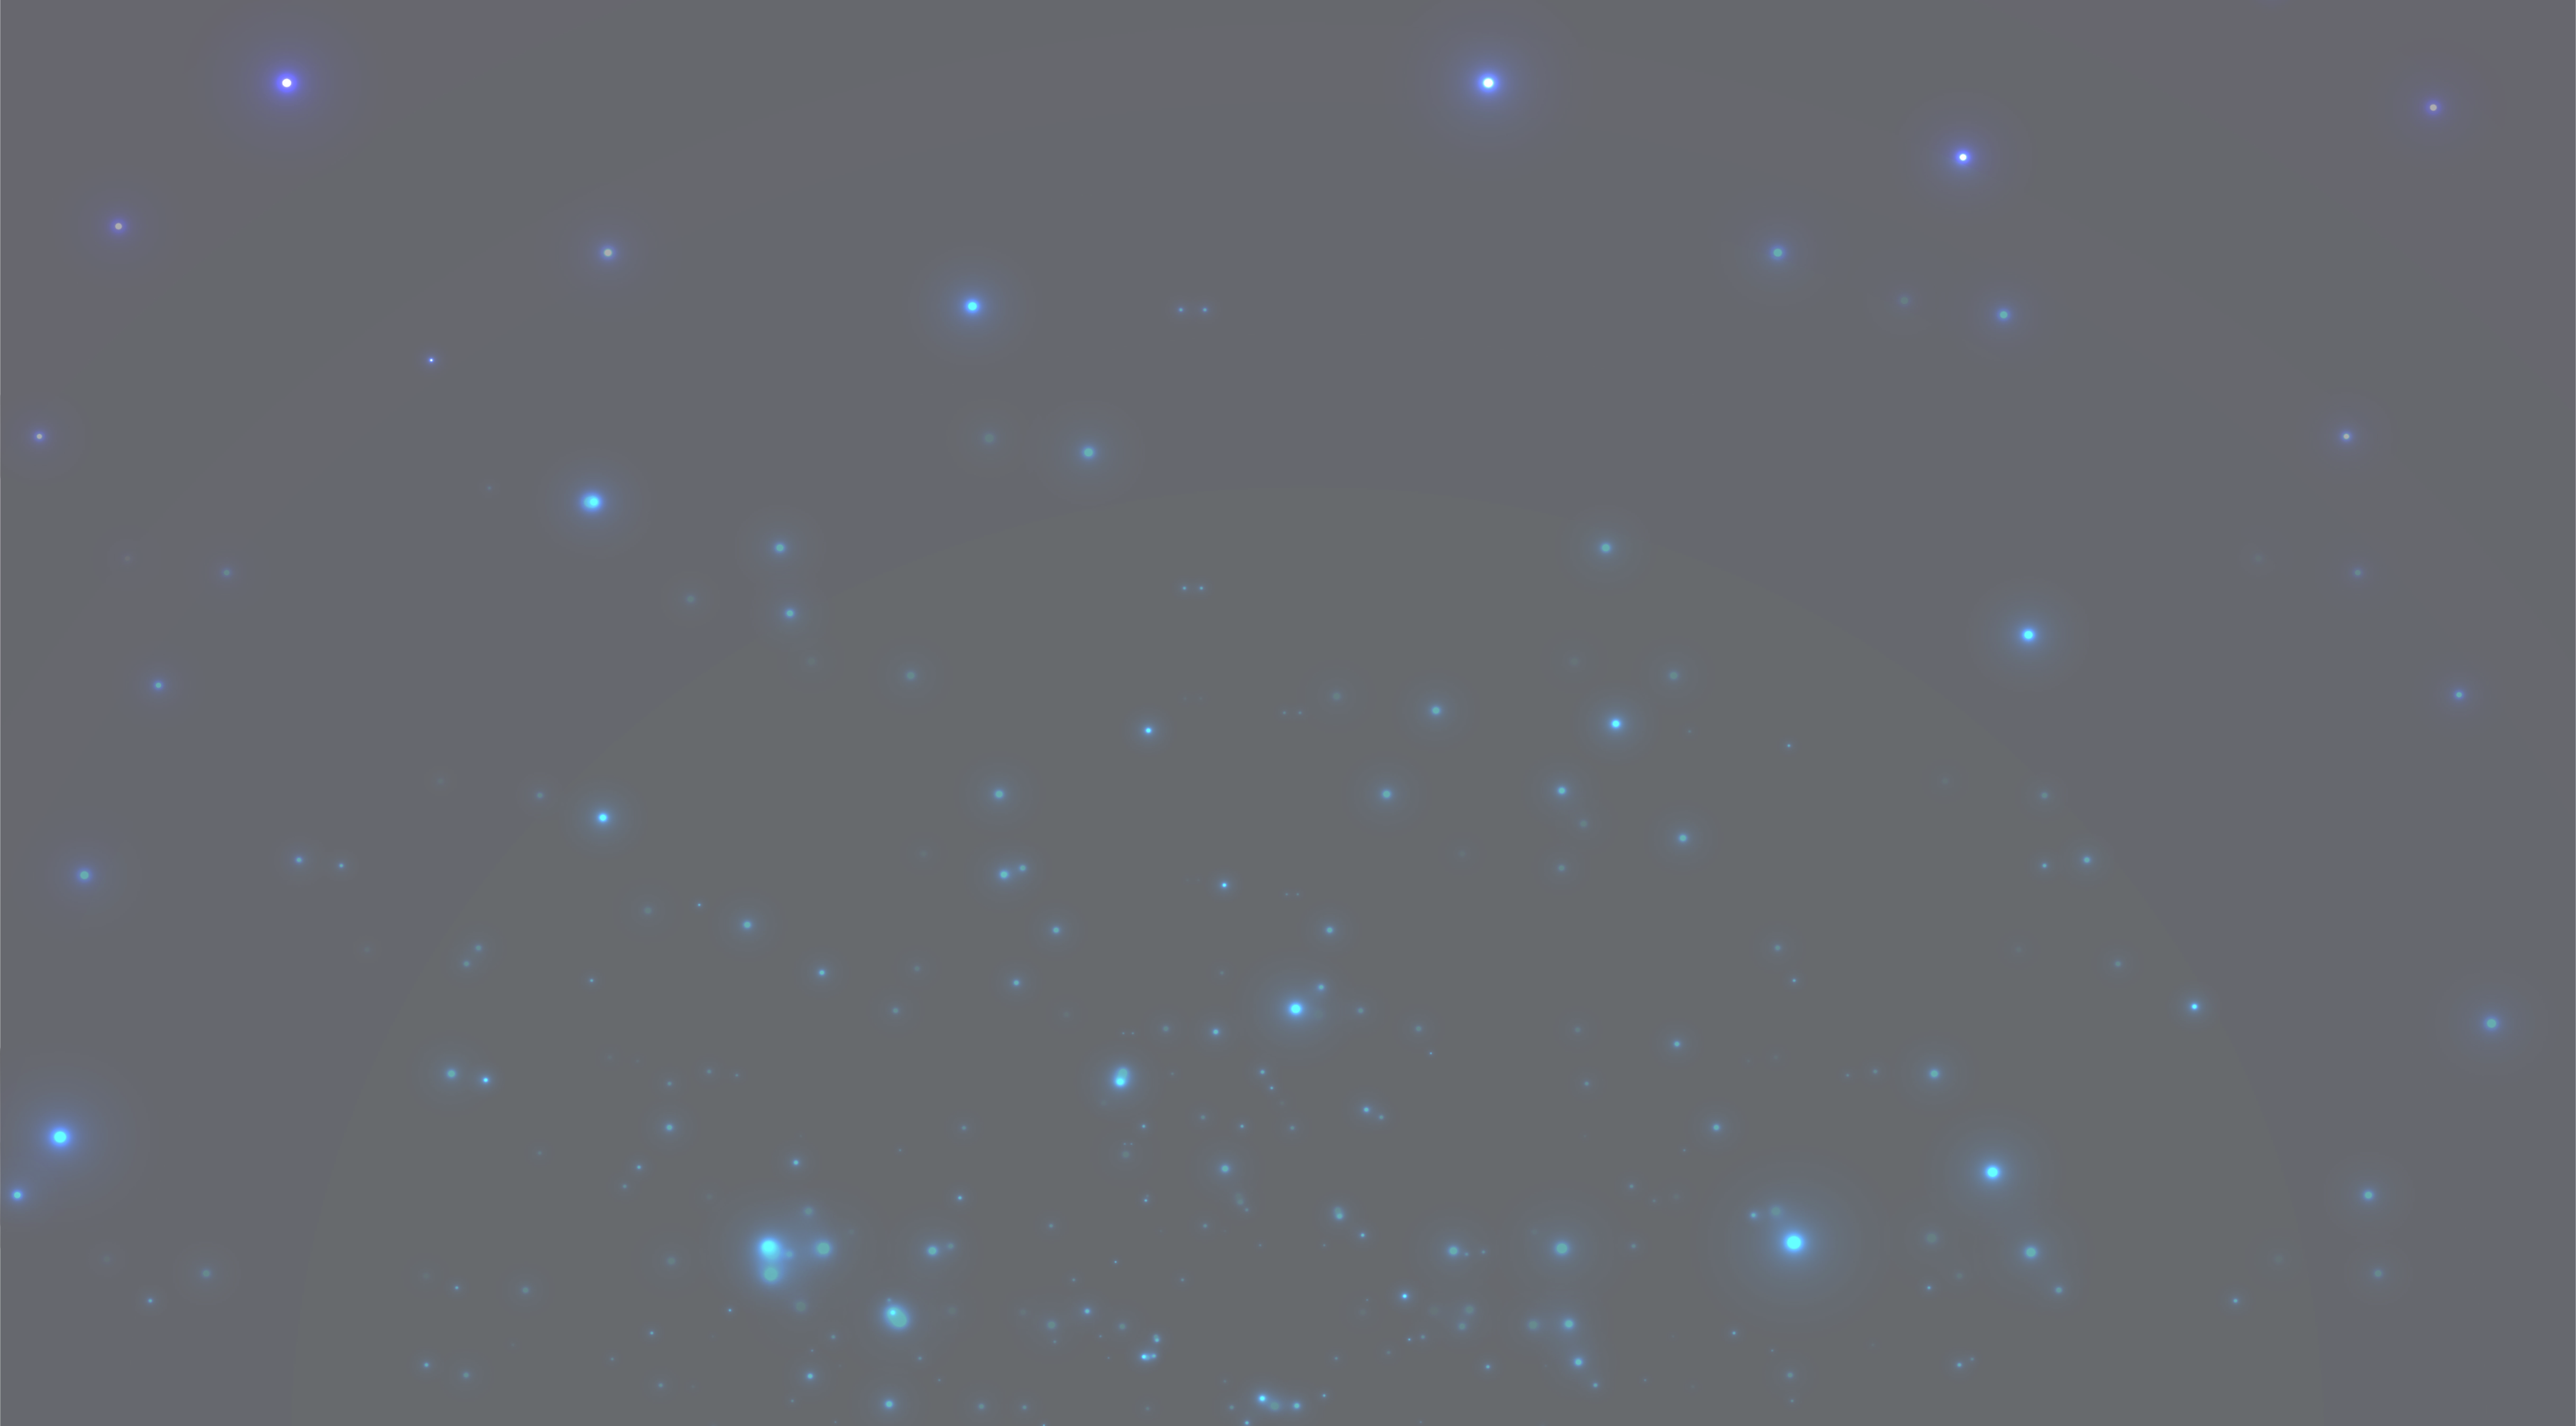
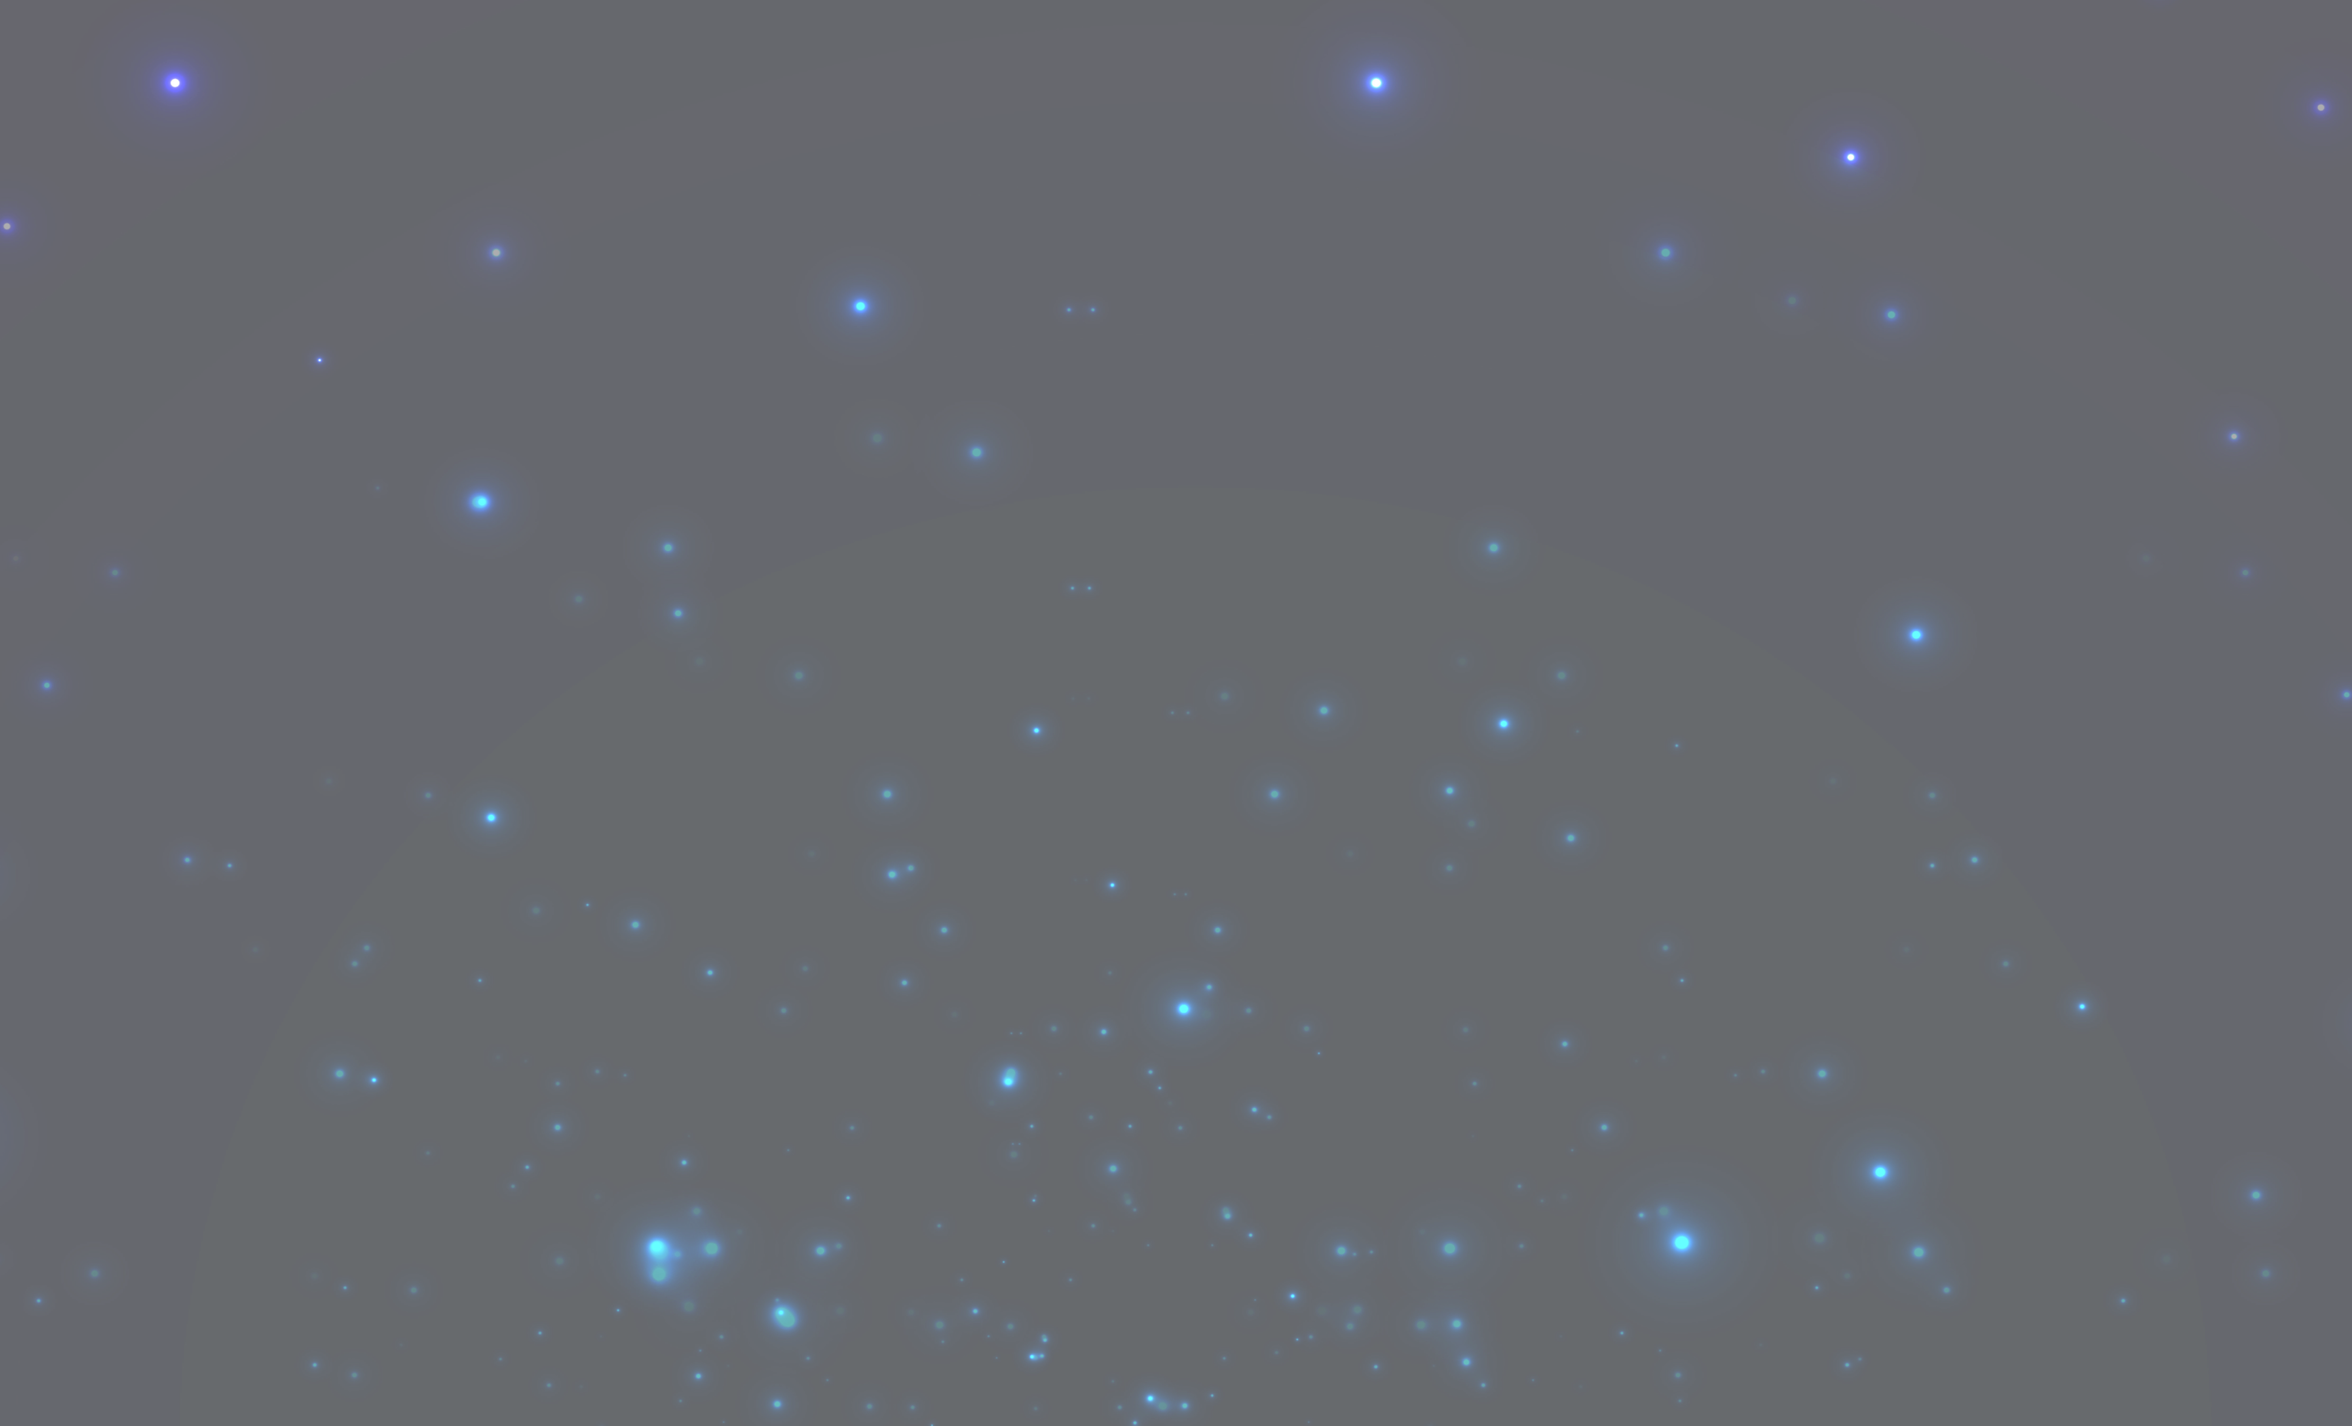
feat: add animate bg

diff --git a/pages/index.tsx b/pages/index.tsx
@@ -25,7 +25,7 @@ export default function IndexPage() {
          */}
         <section className="flex lg:h-screen bg-sky_1 bg-contain relative">
           <div className={fullScreen()}>
-            <div className="sm:w-full md:w-3/5">
+            <div className="sm:w-full md:w-3/5 animate-flicker">
               <Image
                 className="h-full w-full object-cover"
                 alt="home-cover-1"
@@ -60,11 +60,13 @@ export default function IndexPage() {
 
         <section className="px-4 pb-16 lg:h-screen bg-sky_1 bg-contain relative">
           <div
-            className={fullScreen({
-              type: "absolute",
-            })}
+            className={clsx(
+              fullScreen({
+                type: "absolute",
+              }),
+            )}
           >
-            <div className="w-full max-w-[1536px]">
+            <div className="w-full max-w-[1536px] half-animate-flicker">
               <Image
                 className="h-full w-full object-cover"
                 alt="home-cover-2"
@@ -139,7 +141,7 @@ export default function IndexPage() {
 
         <section className="flex h-[600px] lg:h-screen bg-sky_1 bg-contain relative px-4">
           <div className={clsx(fullScreen(), "overflow-hidden")}>
-            <div className="absolute h-1/2 right-[-64px]">
+            <div className="absolute h-1/2 right-[-64px] animate-flicker">
               <Image
                 className="h-full w-full object-cover"
                 alt="home-cover-1"

diff --git a/pages/intro.tsx b/pages/intro.tsx
@@ -32,7 +32,7 @@ export default function IndexPage() {
          */}
         <section className="flex lg:h-screen bg-sky_1 bg-contain relative px-4">
           <div className={fullScreen()}>
-            <div className="sm:w-full md:w-3/5">
+            <div className="sm:w-full md:w-3/5 opacity-50">
               <Image
                 className="h-full w-full object-cover"
                 alt="intro-cover-1"
@@ -72,7 +72,7 @@ export default function IndexPage() {
 
         <section className="flex h-[600px] lg:h-screen bg-sky_1 bg-contain relative px-4">
           <div className={clsx(fullScreen(), "overflow-hidden")}>
-            <div className="absolute h-1/2 right-[-64px]">
+            <div className="absolute h-1/2 right-[-64px] animate-flicker">
               <Image
                 className="h-full w-full object-cover"
                 alt="home-cover-1"
@@ -114,7 +114,7 @@ export default function IndexPage() {
           <div className={fullScreen()}>
             <div className="sm:w-full md:w-3/5 absolute left-0">
               <Image
-                className="h-full w-full object-cover"
+                className="h-full w-full object-cover opacity-50"
                 alt="intro-cover-1"
                 src={"/images/earth.png"}
                 width={1162}

diff --git a/styles/globals.css b/styles/globals.css
@@ -15,3 +15,39 @@
     display: list-item;
     list-style-type: disc !important;
 }
+
+
+section{
+    background: url(/images/star-sky-1.png) repeat 0 0;
+    animation: animate 4s infinite;
+    animation-timing-function: linear;
+}
+
+@keyframes animate{
+    100%{
+        background-position: 1200px 1200px;
+    }
+}
+
+
+@keyframes flickerAnimation { 
+    0%   { opacity:0.9; }
+    50%  { opacity:0.6; }
+    100% { opacity:0.9; }
+}
+.animate-flicker {
+    opacity:1;  
+    animation: flickerAnimation 1s infinite;
+}
+
+
+
+@keyframes halfFlickerAnimation { 
+    0%   { opacity:0.7; }
+    50%  { opacity:0.5; }
+    100% { opacity:0.7; }
+}
+.half-animate-flicker {
+    opacity:0.7;  
+    animation: halfFlickerAnimation 1s infinite;
+}

diff --git a/pages/contact.tsx b/pages/contact.tsx
@@ -25,9 +25,9 @@ export default function IndexPage() {
         {/**
          * SECTION 1
          */}
-        <section className="flex lg:h-screen bg-sky_1 bg-contain relative px-4">
+        <section className="flex lg:h-screen bg-sky_1 bg-cover relative px-4">
           <div className={fullScreen()}>
-            <div className="sm:w-full md:w-3/5">
+            <div className="sm:w-full md:w-3/5 opacity-50">
               <Image
                 className="h-full w-full object-cover"
                 alt="intro-cover-1"

diff --git a/pages/news/[id].tsx b/pages/news/[id].tsx
@@ -56,7 +56,7 @@ export default function IndexPage({ data }: { data: INews }) {
          */}
         <section className="flex min-h-screen bg-sky_1 bg-contain relative px-4">
           <div className={fullScreen()}>
-            <div className="sm:w-full md:w-3/5">
+            <div className="sm:w-full md:w-3/5 opacity-50">
               <Image
                 className="h-full w-full object-cover"
                 alt="intro-cover-1"

diff --git a/pages/news.tsx b/pages/news.tsx
@@ -31,7 +31,7 @@ export default function IndexPage() {
          */}
         <section className="flex lg:h-screen bg-sky_1 bg-contain relative px-4">
           <div className={fullScreen()}>
-            <div className="sm:w-full md:w-3/5">
+            <div className="sm:w-full md:w-3/5 opacity-50">
               <Image
                 className="h-full w-full object-cover"
                 alt="intro-cover-1"

diff --git a/pages/services.tsx b/pages/services.tsx
@@ -33,7 +33,7 @@ export default function IndexPage() {
          */}
         <section className="flex lg:h-screen bg-sky_1 bg-contain relative px-4">
           <div className={fullScreen()}>
-            <div className="sm:w-full md:w-3/5">
+            <div className="sm:w-full md:w-3/5 opacity-50">
               <Image
                 className="h-full w-full object-cover"
                 alt="intro-cover-1"
